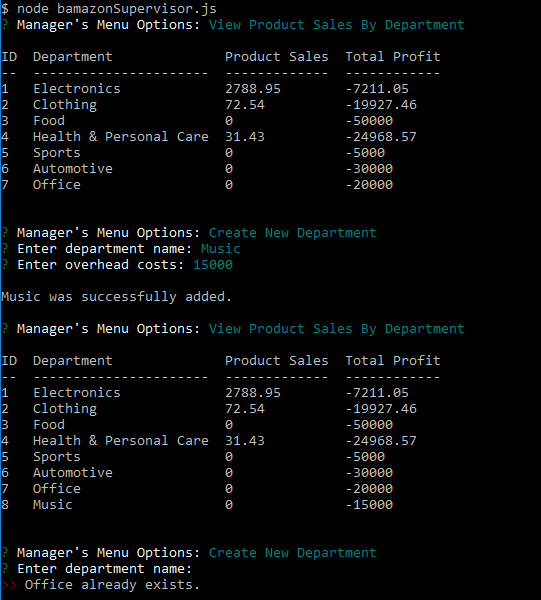
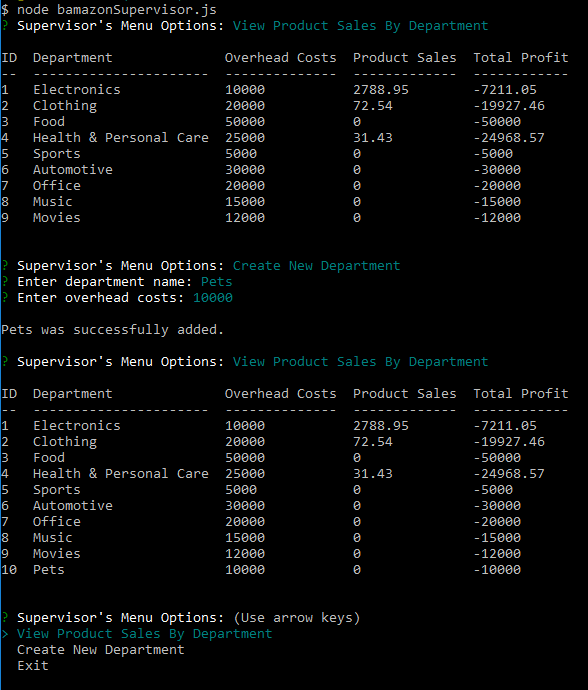
Add instructions to readme

Changed region(s): [[0.0, 0.36, 0.976, 0.99], [0.0, 0.0, 0.976, 0.33]]

diff --git a/bamazonSupervisor.js b/bamazonSupervisor.js
@@ -26,7 +26,7 @@ function menu() {
     {
       type: "list",
       name: "choice",
-      message: "Manager's Menu Options:",
+      message: "Supervisor's Menu Options:",
       choices: ["View Product Sales By Department", "Create New Department", "Exit"]
     }
   ]).then(function (answers) {
@@ -44,7 +44,7 @@ function menu() {
 
 // Display deparment stastics and total profit
 function displaySales() {
-  var sql = "SELECT departments.department_id AS ID, departments.department_name AS Department, IFNULL(SUM(products.product_sales),0) AS 'Product Sales', " +
+  var sql = "SELECT departments.department_id AS ID, departments.department_name AS Department, departments.over_head_costs AS 'Overhead Costs', IFNULL(SUM(products.product_sales),0) AS 'Product Sales', " +
     "IFNULL(SUM(products.product_sales),0) - departments.over_head_costs AS 'Total Profit' FROM departments " +
     "LEFT JOIN products ON departments.department_name = products.department_name " +
     "GROUP BY departments.department_name ORDER BY department_id";

diff --git a/README.md b/README.md
@@ -1,16 +1,64 @@
 # Bamazon
 A command-line store app using npm packages MySQL and Inquirer that lets customers purchase items; managers keep track of items, add stock and add new items; and supervisors view total profits and create departments.
 
-#### bamazonCustomer.js
+## Setting Up
+First clone or download the source code.
+```
+git clone https://github.com/jdwong415/Bamazon.git
+```
+Node.js is needed to run this app. Once that is installed, run the following to download dependenices.
+```
+npm install
+```
 
+## Customer View
+Run the following in a terminal to view the Customer View.
+```
+node bamazonCustomer.js
+```
+The available products will be displayed. Enter the number of the item to be purchased. Next, enter the amount to be purchased. After the order is placed, the product's quantity is checked to see if enough is in stock. If the quantity is not enough, the order is cancelled, otherwise the order is completed. The customer may then continue shopping or exit.
+
+#### bamazonCustomer.js
 ![Bamazon Customer](./images/customer.png)
 
-#### bamazonManager.js
+## Manager View
+Run the following in a terminal to view the Manager View.
+```
+node bamazonManager.js
+```
+A menu with different options is displayed.
+```
+View Products for Sale
+View Low Inventory
+Add to Inventory
+Add New Product
+```
+`View Products for Sale` will display all the products available in the store.
 
+`View Low Inventory` will display all products with a quantity less than five.
+
+`Add to Inventory` allows the manager to increase the stock of a item currently in the store. All of the products in the store is displayed. First the item number of the product to be stocked up is inputed. Next the amount to be added is then entered.
+
+`Add New Product` allows the manager to add a new product not previously available to the store. First the name of the product is entered. Next, the manager chooses from a list of available departments. This is followed by the price of the product and then the quantity to be added.
+
+#### bamazonManager.js
 ![Bamazon Manager](./images/manager.png)
 
-#### bamazonSupervisor.js
+## Supervisor View
+Run the following in a terminal to view the Supervisor View.
+```
+node bamazonSupervisor.js
+```
+A menu with different options is displayed.
+```
+View Product Sales By Department
+Create New Department
+```
+`View Product Sales By Department` shows the product sales and total profit of each department.
 
+`Create New Department` allows the supervisor to create a new department. First the name of the department is entered. If it already exists, another name will need to be entered. Then, the overhead costs is inputed.
+
+#### bamazonSupervisor.js
 ![Bamazon Supervisor](./images/supervisor.png)
 
 
